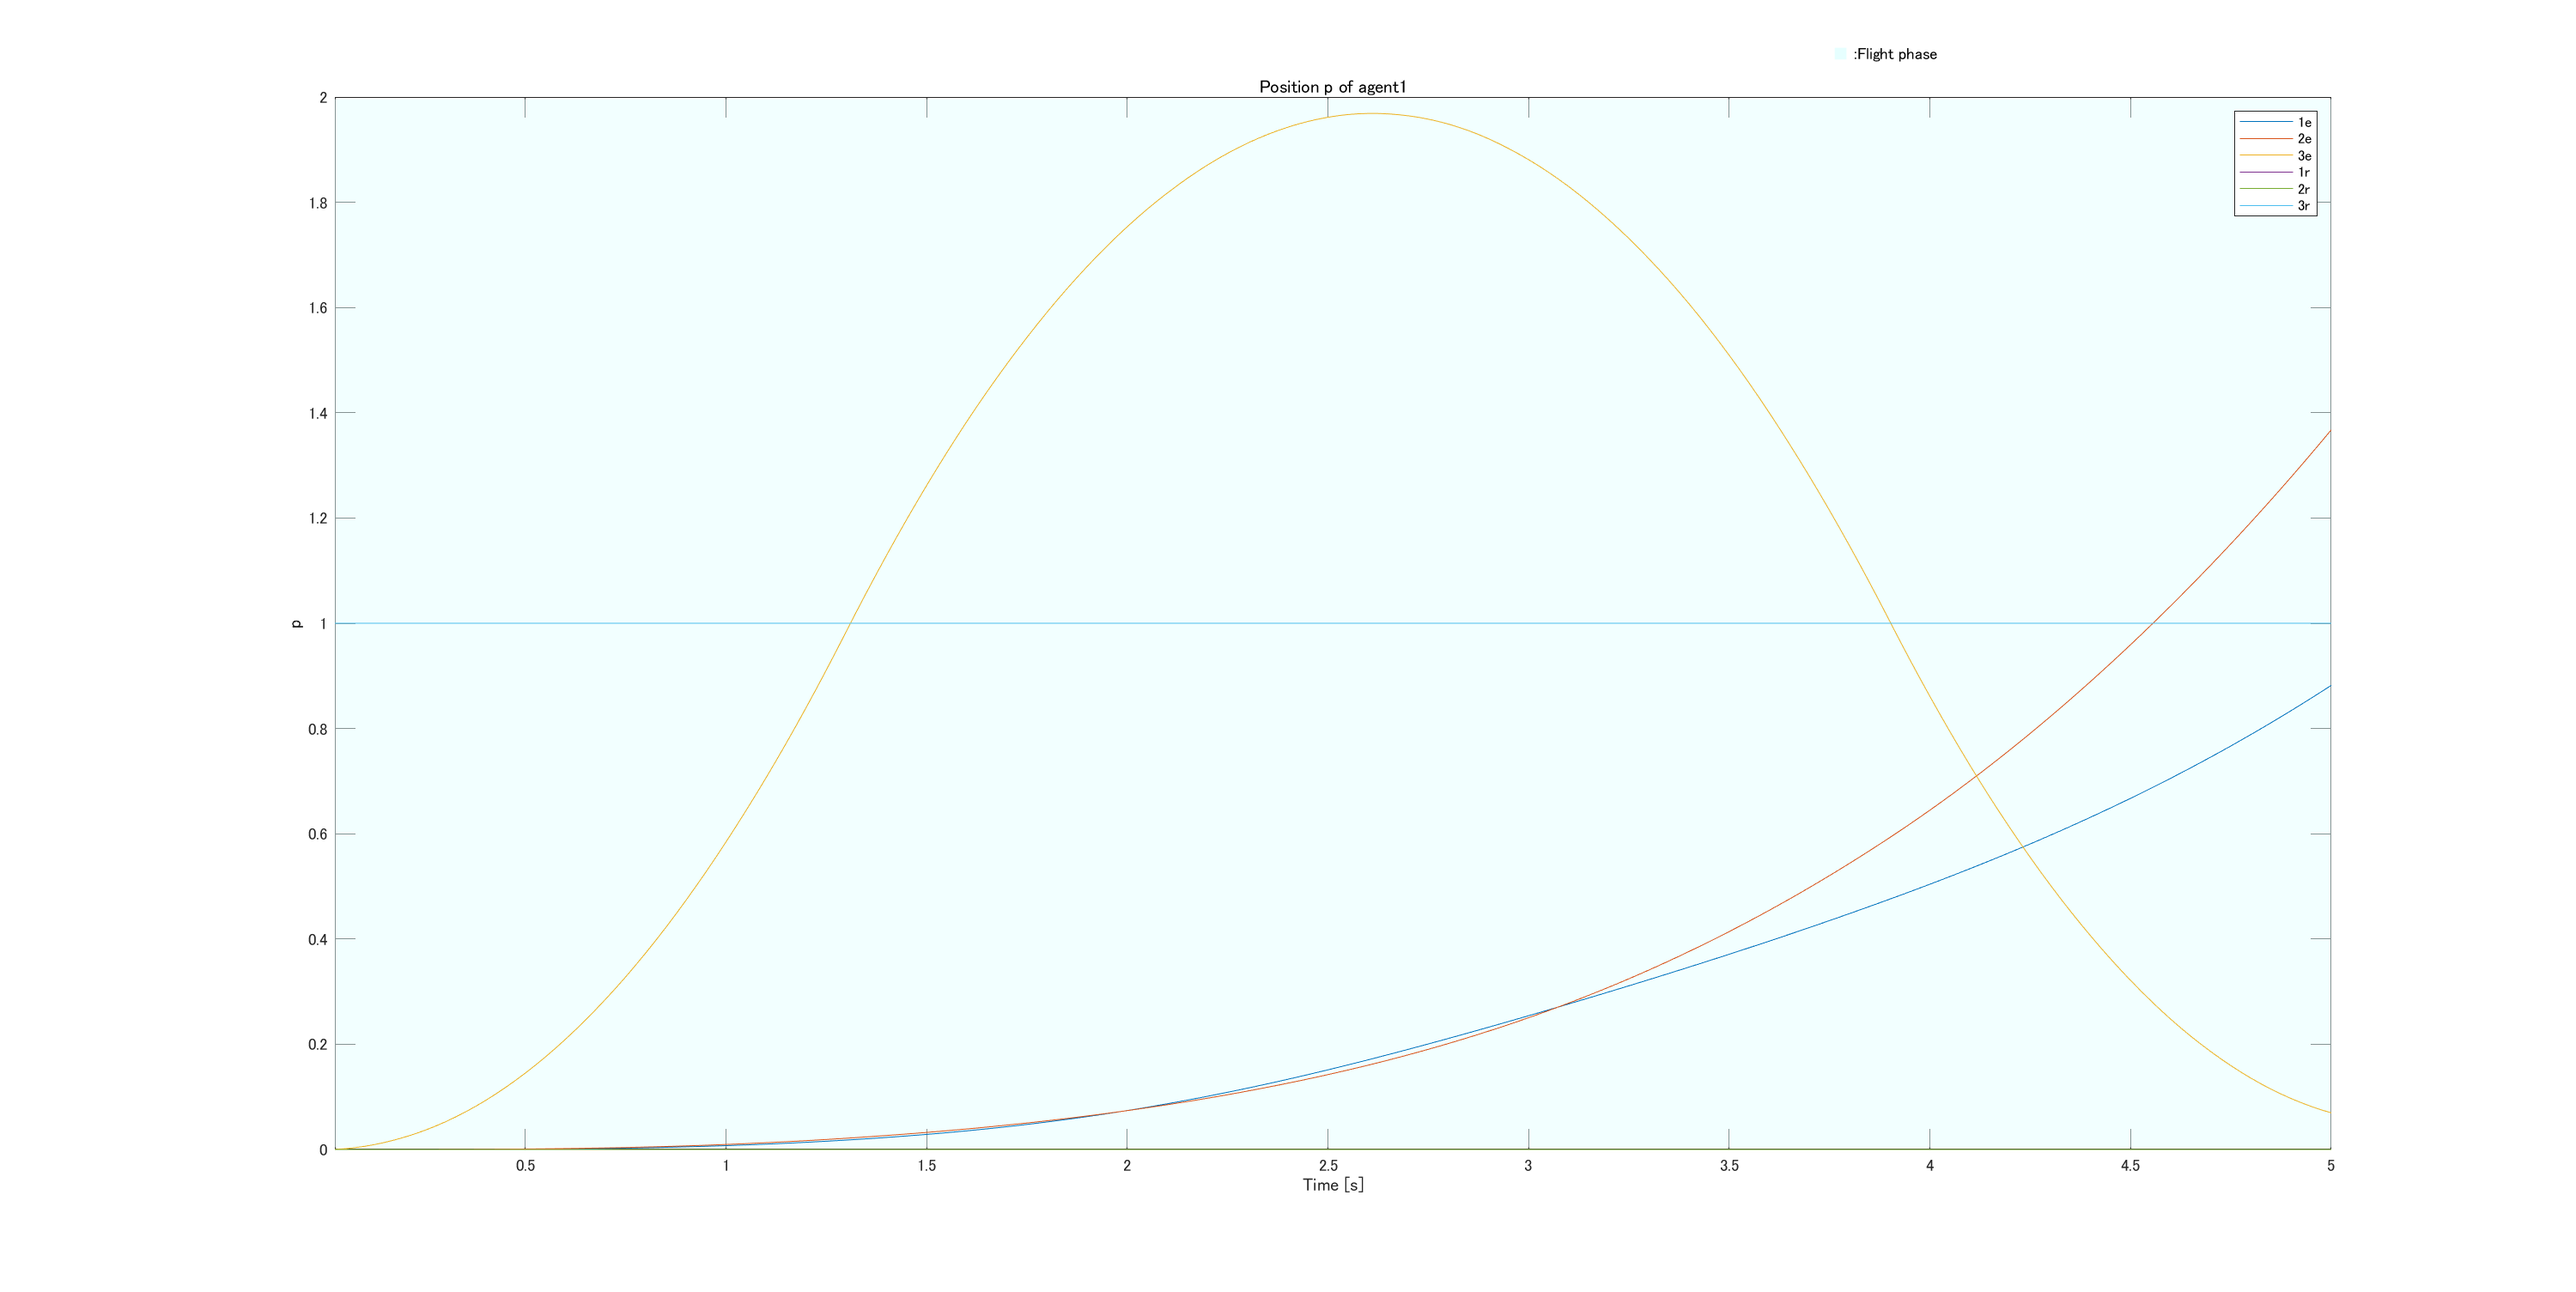
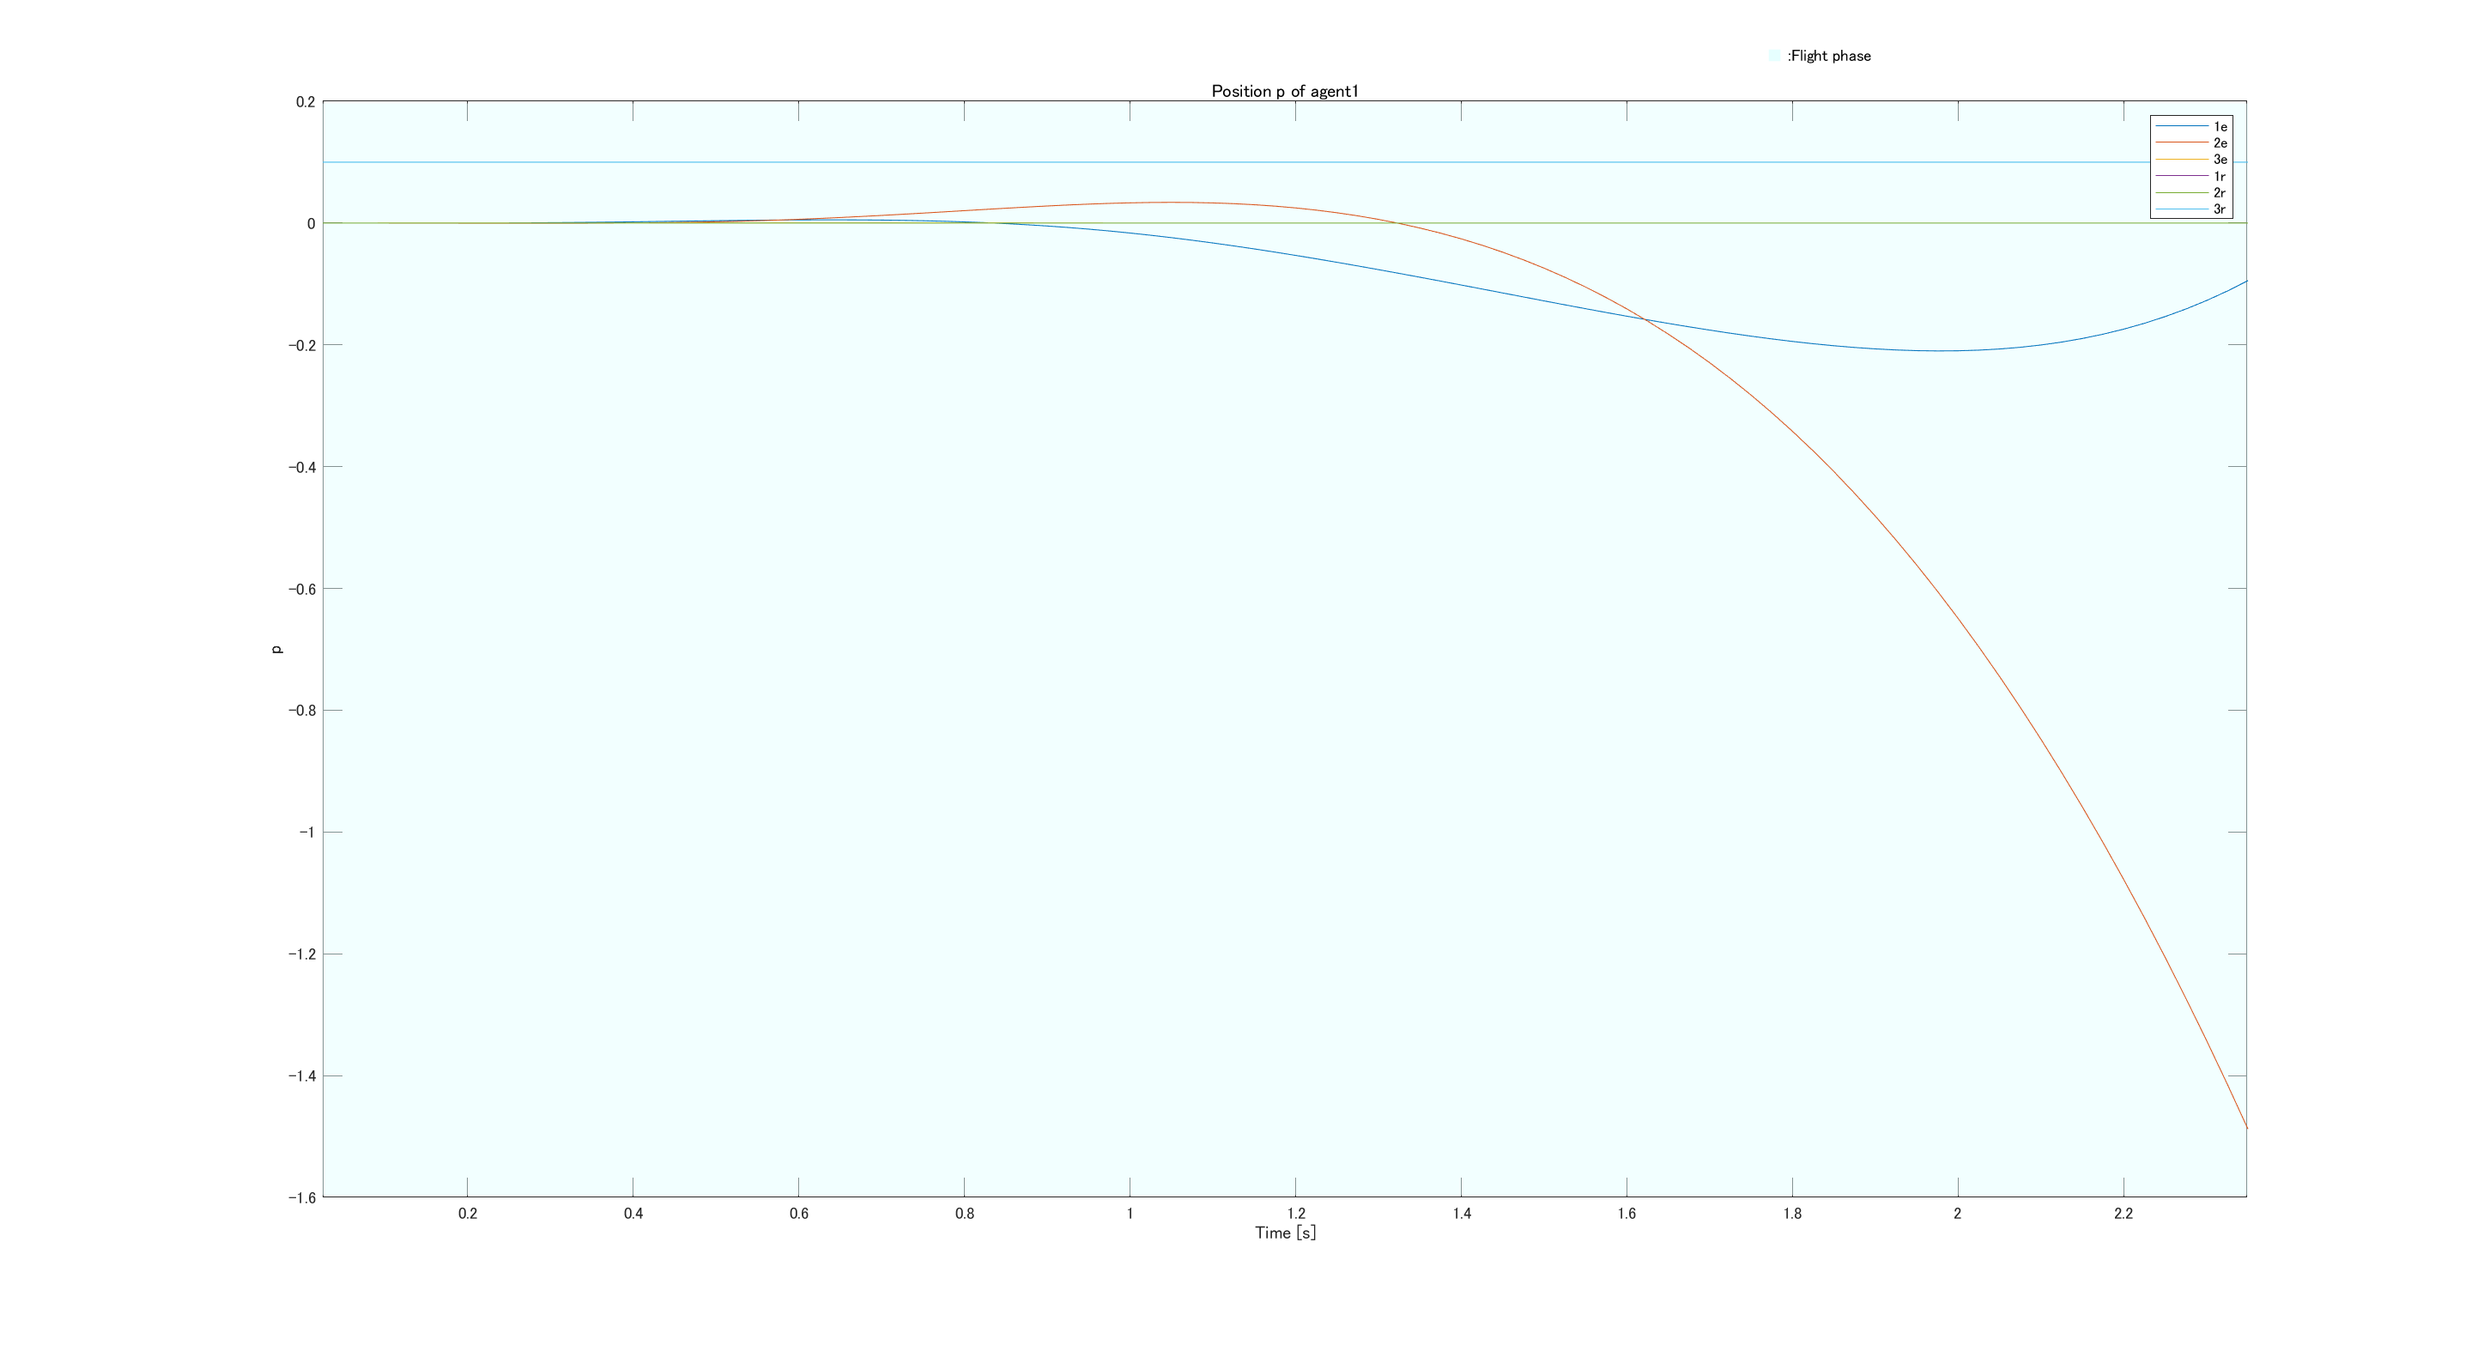
make MCMPC add no_horizon_re.m
no_horizon_re.m
入力が乱数になっていることを確認
評価関数に姿勢角の項を追加

diff --git a/main_no_horizon_re.m b/main_no_horizon_re.m
@@ -64,10 +64,15 @@ end
             % estimator
             agent(i).do_estimator(cell(1, 10));
             %if (fOffline);exprdata.overwrite("estimator",time.t,agent,i);end
-
             % reference
+            if time.t <= 1
+                ry = 1 * (time.t)^2+0.1;
+            else
+                ry = 1.;
+            end
+%             ry = 1.0;
             param(i).reference.covering = [];
-            param(i).reference.point = {FH, [0; 0; 1], time.t};  % 目標値[x, y, z]
+            param(i).reference.point = {FH, [1; 1; ry], time.t};  % 目標値[x, y, z]
             param(i).reference.timeVarying = {time};
             param(i).reference.tvLoad = {time};
             param(i).reference.wall = {1};
@@ -86,8 +91,9 @@ end
             agent(i).do_controller(param(i).controller.list);
             %if (fOffline); expudata.overwrite("input",time.t,agent,i);end
             % 強制的に入力を決定
-       
-            tic
+            fprintf("%f %f %f \t %f %f %f\n", agent.model.state.p(1), agent.model.state.p(2), agent.model.state.p(3),...
+                agent.reference.result.state.p(1), agent.reference.result.state.p(2), agent.reference.result.state.p(3))
+%             tic
             % MPC controller
             % ts探し
             ts = 0;
@@ -97,63 +103,57 @@ end
 %             Q_monte_x = 10000; Q_monte_y = 10000; Q_monte_z = 10000;
 %             VQ_monte_x = 10; VQ_monte_y = 10; VQ_monte_z = 1;
             
-            Q_monte = diag([1, 1, 1000000]);
+            Q_monte = diag([10, 10, 100]);
             VQ_monte = diag([1, 1, 1]);
+            QQ_monte = diag([1, 1, 1]);
             R_monte = 1;    
             % 評価関数
 %             fun = @(p_monte, u_monte) (p_monte - agent.reference.result.state.p)'*Q_monte*(p_monte - agent.reference.result.state.p)+(u_monte - ref_input)'*R_monte*(u_monte - ref_input); 
 %             fun = @(p_monte) (p_monte - agent.reference.result.state.p)'*Q_monte*(p_monte - agent.reference.result.state.p); 
-            fun = @(p_monte, v_monte) (p_monte - agent.reference.result.state.p)'*Q_monte*(p_monte - agent.reference.result.state.p)+v_monte'*VQ_monte*v_monte; 
+%             fun = @(p_monte, v_monte) (p_monte - agent.reference.result.state.p)'*Q_monte*(p_monte - agent.reference.result.state.p)+v_monte'*VQ_monte*v_monte;
+            fun = @(p_monte, v_monte, q_monte) (p_monte - agent.reference.result.state.p)'*Q_monte*(p_monte - agent.reference.result.state.p)...
+                +v_monte'*VQ_monte*v_monte...
+                +q_monte'*QQ_monte*q_monte; 
             % 制約条件
             Fsub = @(sub_monte1) sub_monte1 > 0;
             % ホバリングから±sigma%の範囲
             rng('shuffle')
             sigma = 0.15;
-            delta1 = 0.0; delta2 = 0.0; delta3 = 0.0; delta4 = 0.0;
             a = 0.269 * 9.81 / 4 - 0.269 * 9.81 / 4 * sigma;           b = 0.269 * 9.81 / 4 + 0.269 * 9.81 / 4 * sigma;
-            sample = 500;   % サンプル数
-%             u = (b-a).*rand(sample,4) + a;        
-%             a_xy = 0.269 * 9.81 / 4 - 0.269 * 9.81 / 4 * sigma_xy;     b_xy = 0.269 * 9.81 / 4 + 0.269 * 9.81 / 4 * sigma_xy;
+            sample = 100;   % サンプル数
+            u = (b-a).*rand(sample,4) + a;        
             % 入力 u
 %             u = [0 0 0 0];
-            u1(: ,1) = (b-a).*rand(sample,1) + a + delta1;               u2(: ,1) = (b-a).*rand(sample,1) + a + delta2;
-            u3(: ,1) = (b-a).*rand(sample,1) + a + delta3;               u4(: ,1) = (b-a).*rand(sample,1) + a + delta4;
-            u = [u1 u2 u3 u4];
-            
-            
+%             u1(: ,1) = (b-a).*rand(sample,1) + a;               u2(: ,1) = (b-a).*rand(sample,1) + a;
+%             u3(: ,1) = (b-a).*rand(sample,1) + a;               u4(: ,1) = (b-a).*rand(sample,1) + a;
+%             u = [u1 u2 u3 u4];
+   
             % 配列定義
             Adata = zeros(sample, 1);   % 評価値
             P_monte = zeros(sample, 3); % ある入力での位置
             V_monte = zeros(sample, 3); % ある入力での速度
+            Q_monte = zeros(sample, 3); % ある入力での姿勢角
             fZpos = zeros(sample, 1);
             for monte = 1 : sample
                 [~,tmpx]=agent.model.solver(@(t,x) agent.model.method(x, u(monte, :)',agent.parameter.get()),[ts ts+dt],agent.estimator.result.state.get());
-                P_monte(monte, :) = tmpx(end, 1:3);  % ある入力での位置 x, y, z
-                V_monte(monte, :) = tmpx(end, 7:9);  % ある入力での速度 vx, vy, vz
-                if Fsub(P_monte(monte, 3)) == 1
-%                     Adata(monte, 1) = fun(P_monte(monte, 1:3)');    % p / 評価値(x, y, z)算出
-                    Adata(monte, 1) = fun(P_monte(monte, 1:3)', V_monte(monte, 1:3)');    % p, v
-%                     fZpos(monte, 1) = 0;
+                P_monte(monte, :) = tmpx(end, 1:3);     % ある入力での位置 x, y, z
+                V_monte(monte, :) = tmpx(end, 7:9);     % ある入力での速度 vx, vy, vz
+                Q_monte(monte, :) = tmpx(end, 10:12);   % ある入力での姿勢角
+                if Fsub(P_monte(monte, 3)') == 1
+                    Adata(monte, 1) = fun(P_monte(monte, 1:3)', V_monte(monte, 1:3)', Q_monte(monte, 1:3)');    % p, v，ｑ;
                 else
                     Adata(monte, 1) = 10^10;
-                    fZpos(monte, 1) = 1
+                    fZpos(monte, 1) = 1;
                 end
             end
-            toc
-            
-            
-%                 Adata(monte, 1:3) = arrayfun(fun, P_monte(1:3)', u(monte, :)')';  % 評価値(x, y, z)算出
+%             toc
+
             [~,min_index] = min(Adata(:, 1));   % 評価値の合計の最小値インデックス算出
-            u(min_index, 4) = u(min_index, 4);
             agent.input = u(min_index, :)';     % 最適な入力の取得
+%             agent.input = [u(min_index, 2) u(min_index, 2) u(min_index, 2) u(min_index, 2)]';   % 挙動確認用
             if fZpos(min_index, 1) == 1
-                printf("Stop!!");               % エラーを吐かせて終了させる
+                printf("Stop!!");               % エラーを吐かせて終了させる fprintfが本物
             end
-%             if  P_monte(min_index, 3) > 0
-%                 agent.input = u(min_index, :)';     % 最適な入力の取得
-%             else
-%                 agent.input = [0; 0; 0; 0];            % z < 0 なら　u = 0
-%             end
         end
         
         %% update state
@@ -228,7 +228,7 @@ logger.plot({1,"p", "er"});
 % logger.plot({1,"v", "e"});
 % logger.plot({1,"input", ""});
 % agent(1).reference.timeVarying.show(logger)
-saveas(gcf,'Data/20220622_no_horizon_re_1.png')
+% saveas(gcf,'Data/20220622_no_horizon_re_1.png')
 
 %% animation
 %VORONOI_BARYCENTER.draw_movie(logger, N, Env,1:N)

diff --git a/main1_setting.m b/main1_setting.m
@@ -16,7 +16,7 @@ ts = 0;
 if fExp
     te = 10000;
 else
-    te = 5; % default: 10
+    te = 10; % default: 10
 end
 
 %% generate environment
